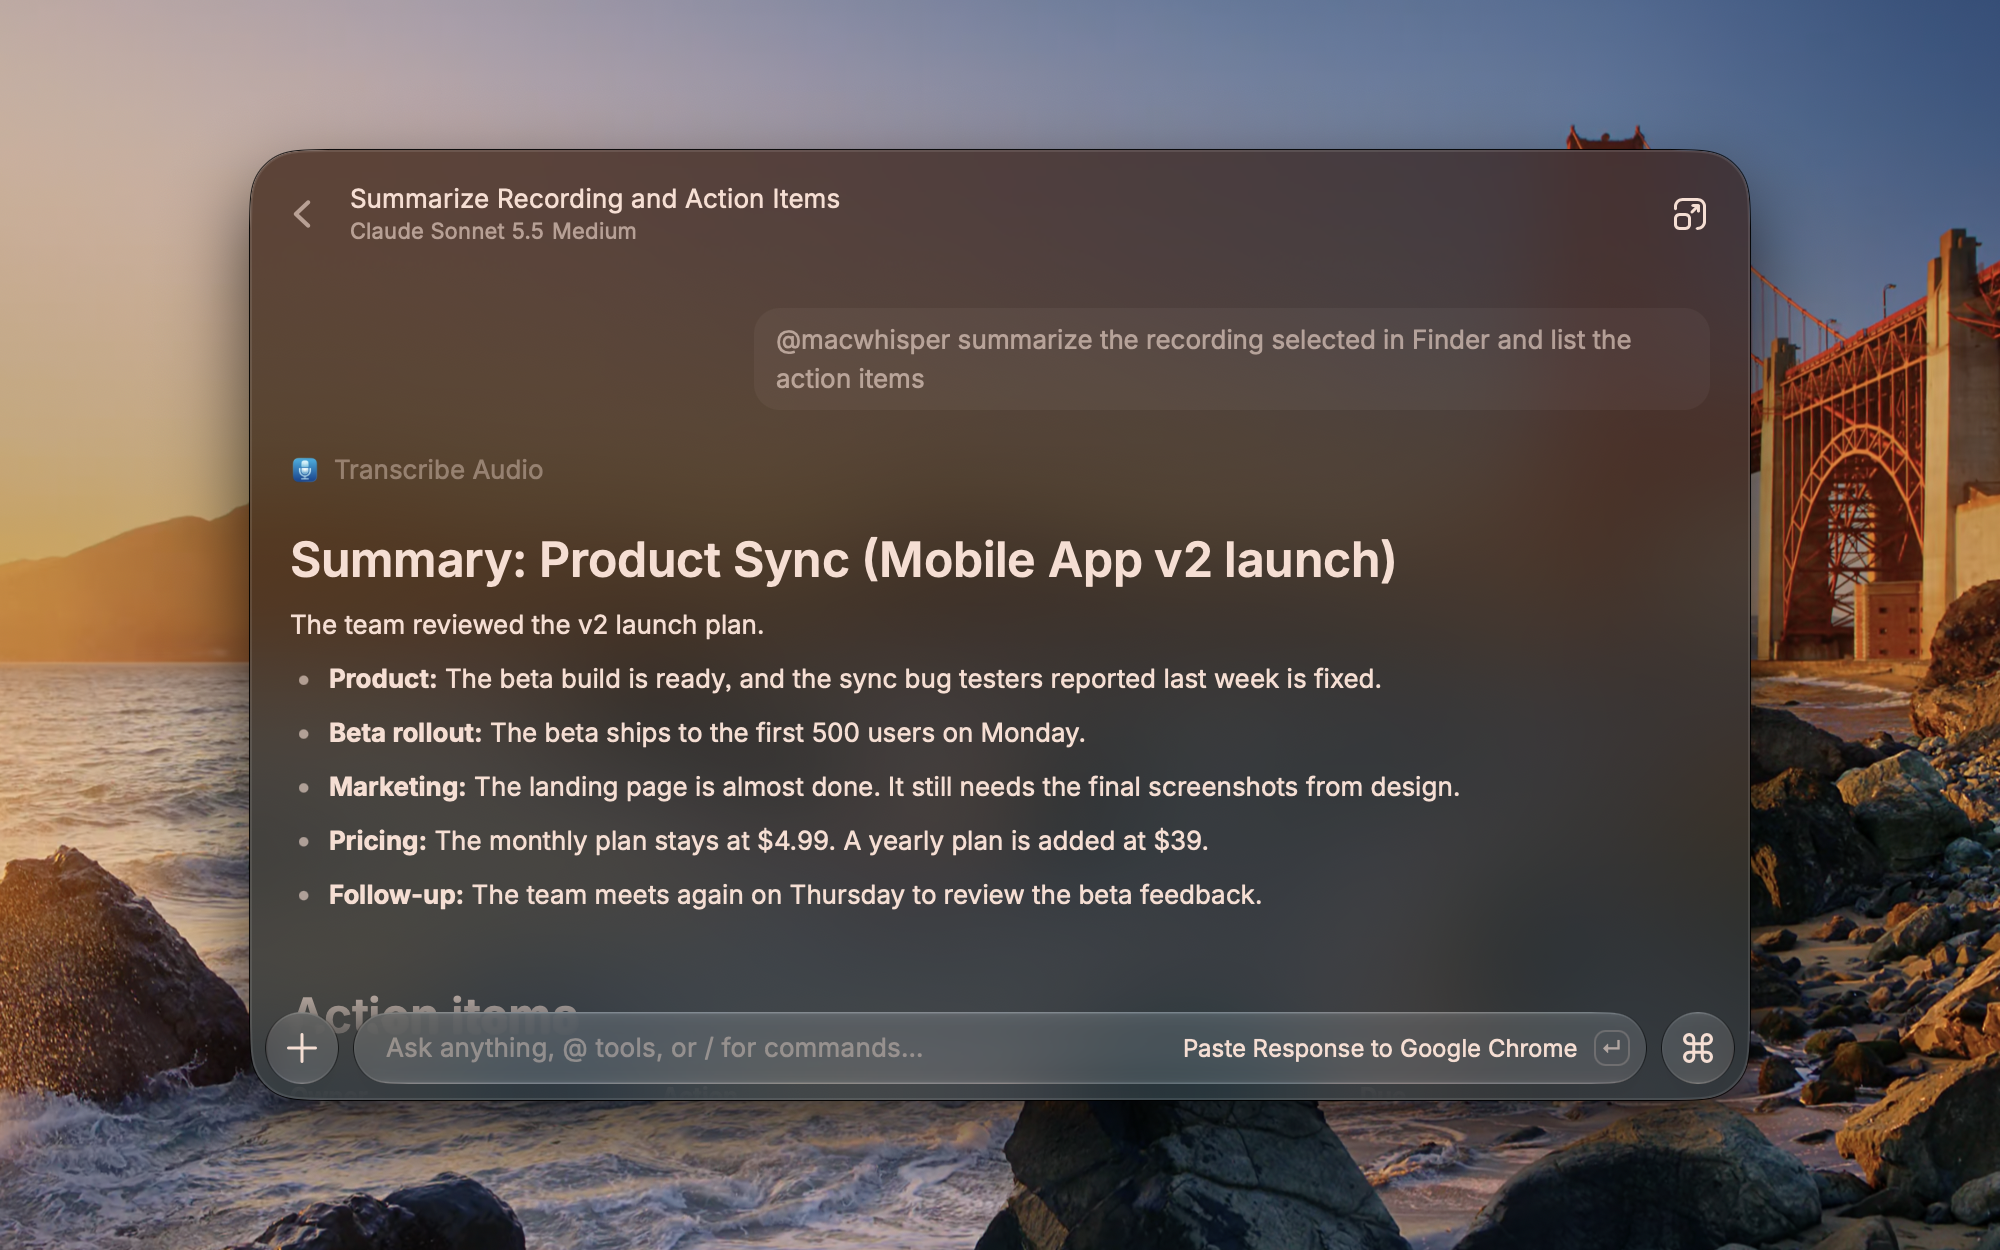
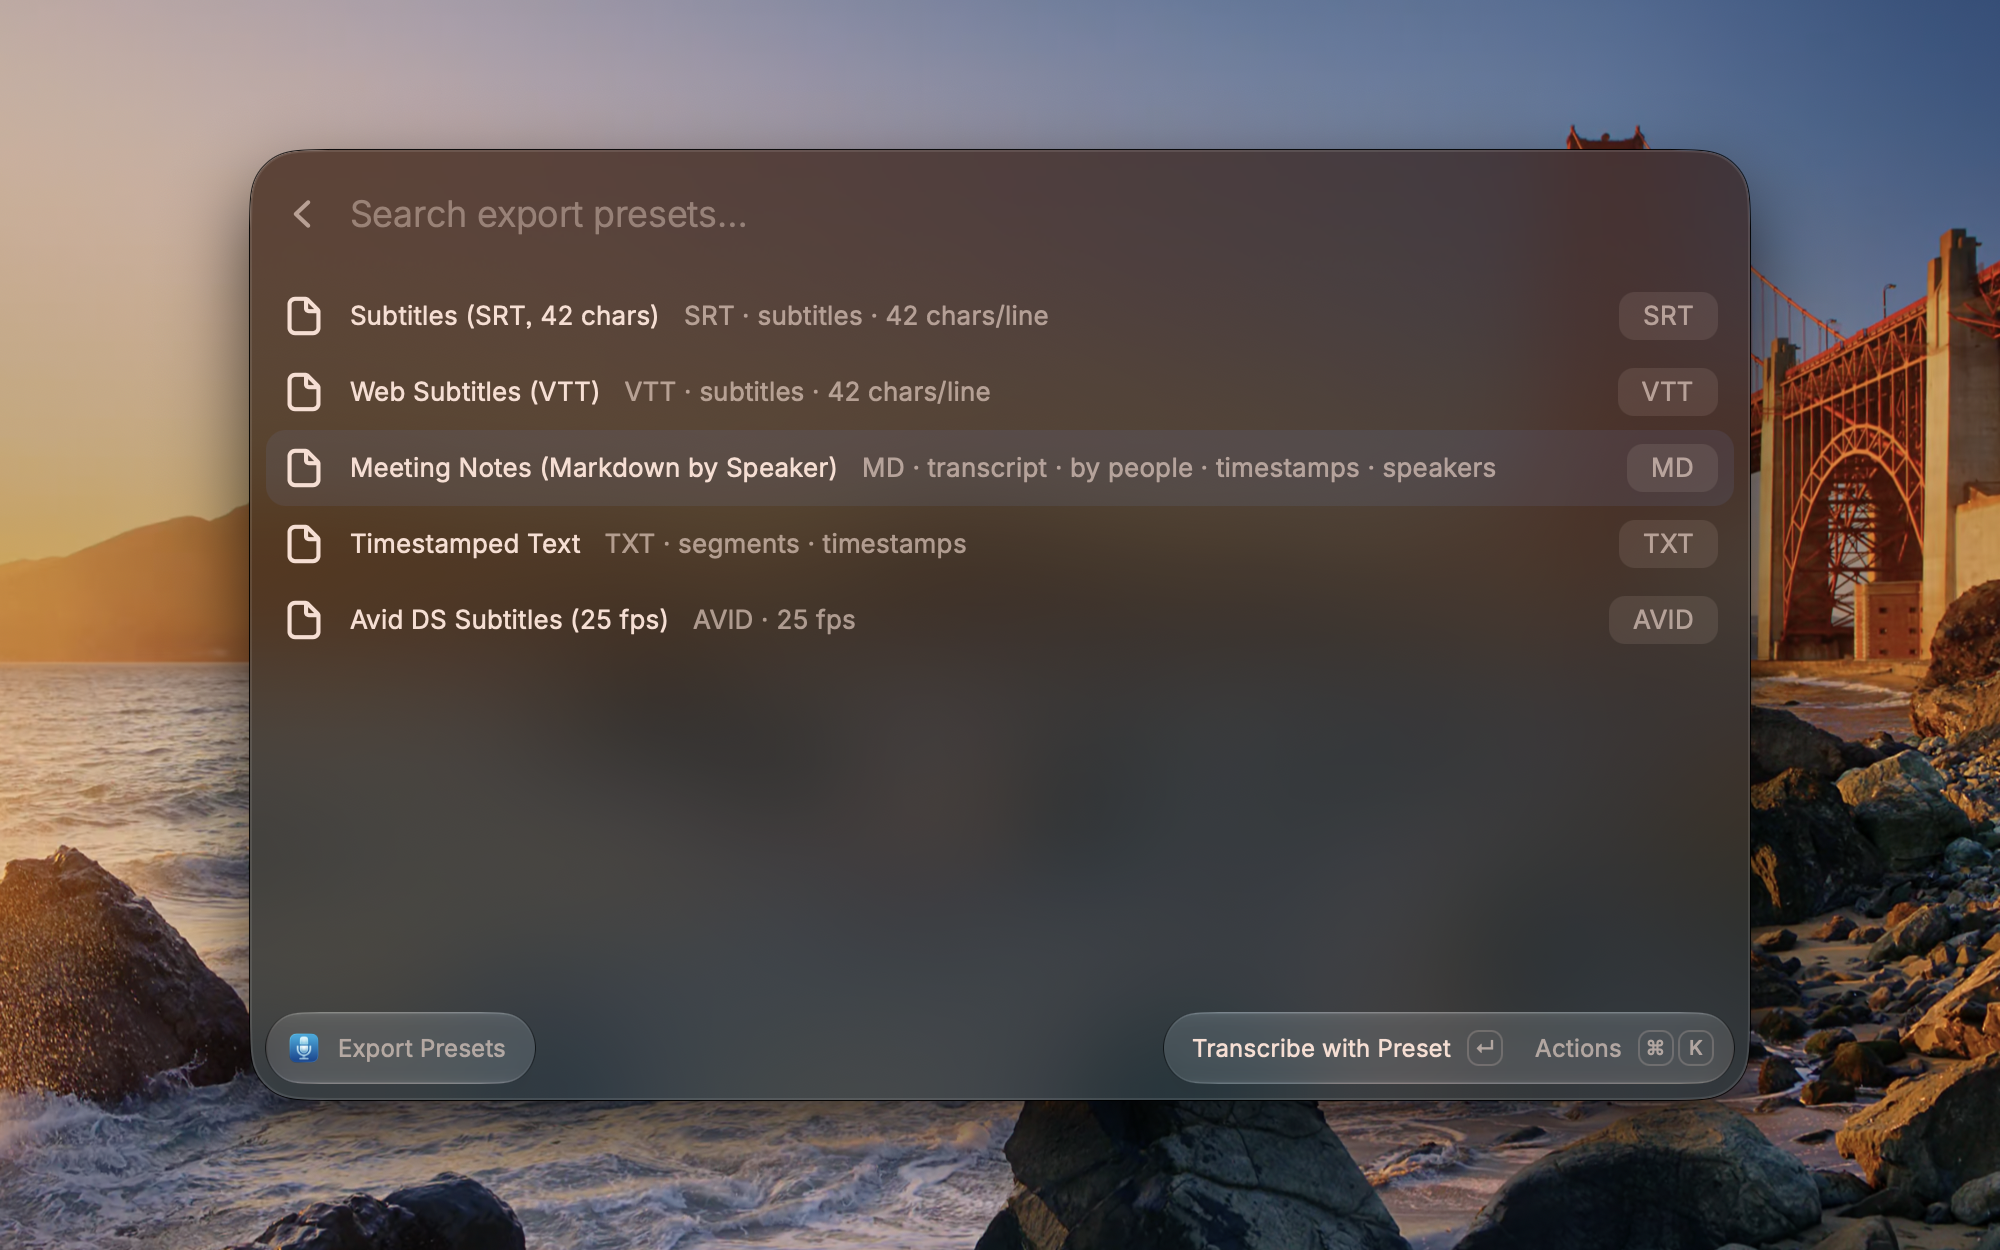
fix: address second Store review
- Remove the AI Chat screenshot from metadata and renumber the last one
- Watch Folder: remember a recording before transcribing it, so a run
  terminated by Raycast does not retry and kill it every interval
- Watch Folder: treat the lock as stale after one interval (10 minutes)
- README: note that failed or interrupted recordings are not retried

diff --git a/src/watch-folder.ts b/src/watch-folder.ts
@@ -14,8 +14,11 @@ import { errorMessage, expandHome, OutputFormat, transcribeFileTo } from "./lib/
 
 /** Files modified less than this long ago may still be recording or downloading. */
 const SETTLE_MS = 60_000;
-/** A run holding the lock longer than this is assumed to have crashed. */
-const STALE_LOCK_MS = 2 * 60 * 60 * 1000;
+/**
+ * A run holding the lock longer than this is assumed to have crashed or been terminated by Raycast,
+ * which ends background runs after a timeout tied to the command's interval (10m in package.json).
+ */
+const STALE_LOCK_MS = 10 * 60 * 1000;
 const MAX_REMEMBERED = 1000;
 
 type State = {
@@ -110,15 +113,16 @@ async function watchOnce(folder: string, format: OutputFormat, userInitiated: bo
   let failure: string | undefined;
   try {
     for (const path of await newRecordings(folder, state, format)) {
+      // Remember the file before transcribing: if the run fails or Raycast terminates it,
+      // the same recording is not retried (and killed again) every interval.
+      state.done.push(path);
+      await saveState(state);
       try {
         await transcribeFileTo(path, sidecarPath(path, format), { format });
         transcribed++;
       } catch (error) {
         failure = `${basename(path)}: ${errorMessage(error)}`;
       }
-      // Remember failures too, so a broken file is not retried every interval.
-      state.done.push(path);
-      await saveState(state);
     }
   } finally {
     await LocalStorage.removeItem(LOCK_KEY);

diff --git a/README.md b/README.md
@@ -17,13 +17,13 @@ MacWhisper does not need to be open: `mw` starts it on demand (a few seconds on 
 
 ### Transcribe
 
-| Command                         | Description                                                                                                                                                                                                           |
-| ------------------------------- | --------------------------------------------------------------------------------------------------------------------------------------------------------------------------------------------------------------------- |
-| **Transcribe File**             | Pick files (the Finder selection is filled in), choose model, language, format (txt, srt, vtt, json, csv, md, html, avid), speaker detection and timestamps, then copy, paste or save the transcript.                 |
-| **Transcribe Finder Selection** | Transcribe the audio/video files selected in Finder and copy the transcript.                                                                                                                                          |
-| **Transcribe Latest Recording** | Transcribe the newest audio/video file in your recording folders.                                                                                                                                                     |
-| **Batch Transcribe Folder**     | Transcribe a whole folder (optionally recursive) into transcript or subtitle files, then browse the results with a preview. The folder open or selected in Finder is filled in.                                       |
-| **Watch Folder**                | Background command: once started, new recordings added to a folder get a transcript next to them (checked every 10 minutes; existing files are left alone and MacWhisper is only called when there is something new). |
+| Command                         | Description                                                                                                                                                                                                                                                                                                                 |
+| ------------------------------- | --------------------------------------------------------------------------------------------------------------------------------------------------------------------------------------------------------------------------------------------------------------------------------------------------------------------------- |
+| **Transcribe File**             | Pick files (the Finder selection is filled in), choose model, language, format (txt, srt, vtt, json, csv, md, html, avid), speaker detection and timestamps, then copy, paste or save the transcript.                                                                                                                       |
+| **Transcribe Finder Selection** | Transcribe the audio/video files selected in Finder and copy the transcript.                                                                                                                                                                                                                                                |
+| **Transcribe Latest Recording** | Transcribe the newest audio/video file in your recording folders.                                                                                                                                                                                                                                                           |
+| **Batch Transcribe Folder**     | Transcribe a whole folder (optionally recursive) into transcript or subtitle files, then browse the results with a preview. The folder open or selected in Finder is filled in.                                                                                                                                             |
+| **Watch Folder**                | Background command: once started, new recordings added to a folder get a transcript next to them (checked every 10 minutes; existing files are left alone and MacWhisper is only called when there is something new). A recording whose transcription failed or was interrupted is not retried: use Transcribe File for it. |
 
 ### Outputs
 
